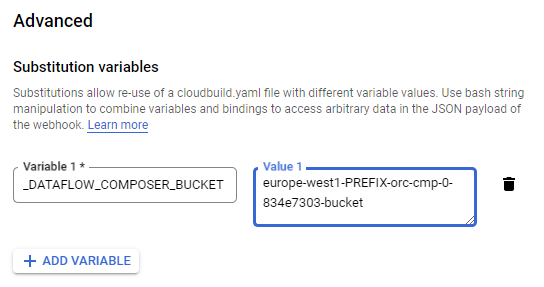
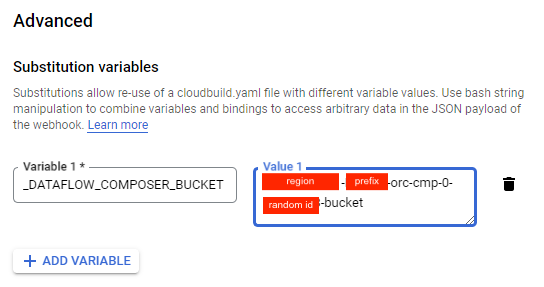
Moodle pipeline README fix

Changed region(s): [[0.4688, 0.5854, 0.7188, 0.7526]]

diff --git a/2-connector-moodle/README.md b/2-connector-moodle/README.md
@@ -46,13 +46,15 @@ After provisioning infrastructure for the data platform through [EDP's foundatio
 
   ![Create Trigger](docs/img/create-trigger-7.png)
 
-10. On Advanced select the option **ADD VARIABLE** and create the following variable with the name of Load Cloud Storage
+10. On Advanced select the option **ADD VARIABLE** and create the following variable with the name of the Load Cloud Storage Bucket:
 
-| Variables             | Example value   | Description             |
-|-----------------------|-----------------|-------------------------|
-| _DATAFLOW_LOAD_BUCKET | {your-prefix}-lod-cs-0 | Name of the Load Bucket |
+| Variables             | Example value           | Description             |
+|-----------------------|-------------------------|-------------------------|
+| _DATAFLOW_LOAD_BUCKET | {your-prefix}-load-cs-0 | Name of the Load Bucket |
 
-  ![Create Trigger](docs/img/create-trigger-8.png)
+<p align="left">
+    <img src="docs/img/create-trigger-8.png" width="600" height="280">
+</p>
 
 11. Click on **CREATE**
 
@@ -96,10 +98,10 @@ After provisioning infrastructure for the data platform through [EDP's foundatio
 
   ![Create Trigger](docs/img/create-trigger-7.1.png)
 
-10. On Advanced select the option **ADD VARIABLE** and create the following variable with the name of Composer Cloud Storage
+10. Refer to {your-prefix}-orc project to find the bucket name for composer artifacts (name pattern: "{your-gcp-region}-{your-prefix}-orc-cmp-0-{random-id}-bucket"). On Advanced session select the option **ADD VARIABLE** and create the following variable with the name of the Composer Cloud Storage Bucket:
 
 ```tfvars
-_DATAFLOW_COMPOSER_BUCKET = "{your-gcp-region}-{your-prefix}-orc-cmp-0-834e7303-bucket"
+_DATAFLOW_COMPOSER_BUCKET = "{your-gcp-region}-{your-prefix}-orc-cmp-0-{random-id}-bucket"
 ```
 
   ![Create Trigger](docs/img/create-trigger-8.1.png)
@@ -110,7 +112,7 @@ _DATAFLOW_COMPOSER_BUCKET = "{your-gcp-region}-{your-prefix}-orc-cmp-0-834e7303-
 
 ## 2. Configure Moodle Connector variables
 
-Before deploying the Moodle Connector's artifacts, you need to configure the [config.json](Files/config_files/config.json) by filling in the following sets of variables:
+Before deploying the Moodle Connector's artifacts, you need to configure the [Files/config_files/config.json](Files/config_files/config.json) by filling in the following sets of variables:
 
 - **"project_id": "{your-prefix}-lod"** = Load project in EDP
 - **"project_id_bq": "{your-prefix}-dwh-lnd"** = Data Warehouse project for landing raw data
@@ -135,5 +137,6 @@ You can keep the default values for the following variables or customize them ac
 - **retention_data** = Time in seconds for the table partition data retention
 - **max_df_instance** = The maximum number of Dataflow jobs running in parallel to ingest Moodle data 
 
-As soon as you push the changes of these variables to your EDP repository in GitHub, the triggers configured in Cloud Build are going to run and deploy all the artifacts needed to run the Moodle connector pipelines.
+As soon as you push the changes of these variables to your EDP repository in GitHub, the trigger configured in Cloud Build for Load Pipeline is going to run and deploy all the artifacts needed to run the Moodle connector pipelines.
 
+At this point, there is no changes to apply in the orchestration artifacts. So, to deploy them you must run the trigger created on Orchestration project manually. However, anytime changes for Orchestration artifacts are pushed in the EDP Repo, Cloud Build in the orc project is going to be triggerd automatically. 
